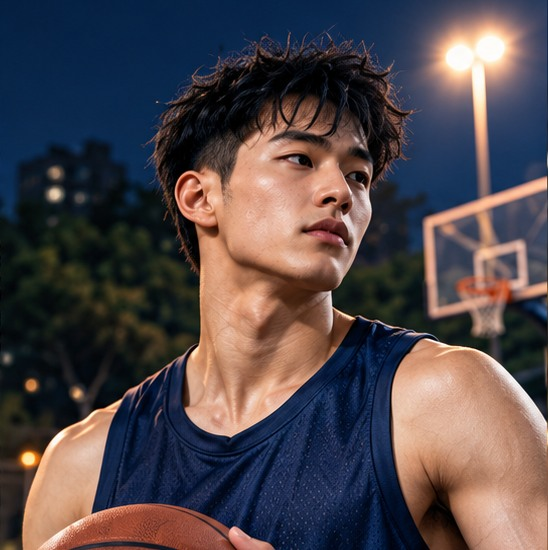
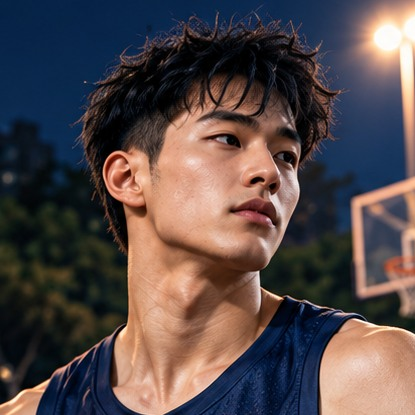
fix(wechat): match approved portrait framing, CTA text and compact page details

diff --git a/tests/e2e/mini-program.spec.ts b/tests/e2e/mini-program.spec.ts
@@ -242,6 +242,7 @@ async function checkDesignGeometry(frame: Frame, scenario: string, width: number
         lineHeight: parseFloat(style.lineHeight),
         radius: parseFloat(style.borderTopLeftRadius),
         background: style.backgroundColor,
+        color: style.color,
       };
     };
     return {
@@ -260,6 +261,14 @@ async function checkDesignGeometry(frame: Frame, scenario: string, width: number
       tableCell: measure('.comparison-cell'),
       columns: document.querySelectorAll('.compare-column').length,
       profileHero: measure('.profile-hero'),
+      profilePortrait: measure('.profile-hero-image'),
+      wrappedMetricLabels: Array.from(document.querySelectorAll('.label-cell'))
+        .filter((cell) => {
+          const range = document.createRange();
+          range.selectNodeContents(cell);
+          return range.getClientRects().length > 1;
+        })
+        .map((cell) => cell.textContent),
       profileQuote: measure('.profile-quote'),
       scopeRail: measure('.scope-rail'),
       selectedPlayer: measure('.selected-player'),
@@ -274,6 +283,8 @@ async function checkDesignGeometry(frame: Frame, scenario: string, width: number
         width: image.width,
         height: image.height,
         objectFit: getComputedStyle(image).objectFit,
+        mode: image.getAttribute('data-mini-image-mode'),
+        naturalRatio: image.naturalWidth / image.naturalHeight,
       })),
     };
   });
@@ -294,7 +305,12 @@ async function checkDesignGeometry(frame: Frame, scenario: string, width: number
     expect(
       metrics.photographs.every(
         (photo) =>
-          photo.loaded && photo.width > 0 && photo.height > 0 && photo.objectFit === 'cover',
+          photo.loaded &&
+          photo.width > 0 &&
+          photo.height > 0 &&
+          (photo.mode === 'widthFix'
+            ? Math.abs(photo.width / photo.height - photo.naturalRatio) < 0.01
+            : photo.objectFit === 'cover'),
       ),
     ).toBe(true);
   }
@@ -304,6 +320,7 @@ async function checkDesignGeometry(frame: Frame, scenario: string, width: number
     expect(metrics.homeAction?.width).toBe(214);
     expect(metrics.homeAction?.height).toBe(52);
     expect(metrics.homeAction?.background).toBe('rgb(255, 107, 45)');
+    expect(metrics.homeAction?.color).toBe('rgb(255, 255, 255)');
   } else {
     expect(metrics.action?.x).toBe(12);
     expect(metrics.action?.width).toBe(width - 24);
@@ -324,10 +341,13 @@ async function checkDesignGeometry(frame: Frame, scenario: string, width: number
       expect(metrics.playerColumn?.width).toBeCloseTo(expected, 1);
       expect(metrics.tableHead?.height).toBe(204);
       expect(metrics.tableCell?.height).toBe(38);
+      expect(metrics.wrappedMetricLabels).toEqual([]);
     } else if (group === 'player') {
       expect(metrics.profileHero?.height).toBe(width <= 360 ? 240 : 260);
-      expect(metrics.profileQuote?.x).toBe(12);
-      expect(metrics.profileQuote?.width).toBe(width - 24);
+      expect(metrics.profilePortrait?.width).toBeCloseTo(width * 0.72, 1);
+      expect(metrics.profilePortrait?.y).toBe(width <= 360 ? -40 : -50);
+      expect(metrics.profileQuote?.x).toBe(0);
+      expect(metrics.profileQuote?.width).toBe(width);
       expect(metrics.action?.background).toBe('rgb(255, 107, 45)');
     } else if (group === 'booking-create') {
       expect(metrics.scopeRail?.height).toBe(44);
@@ -407,6 +427,7 @@ test.describe('原生 WXML/WXSS 静态兼容布局（非微信运行时或真机
           );
           expect(clippedLabels, 'member status labels must fit on one line').toEqual([]);
         }
+        await attachScreen(page, testInfo, 'native-top.png');
         const designGeometry = await checkDesignGeometry(frame, scenario.name, width);
         const diagnosticPath = testInfo.outputPath('native-layout.json');
         fs.mkdirSync(path.dirname(diagnosticPath), { recursive: true });
@@ -432,7 +453,6 @@ test.describe('原生 WXML/WXSS 静态兼容布局（非微信运行时或真机
           path: diagnosticPath,
           contentType: 'application/json',
         });
-        await attachScreen(page, testInfo, 'native-top.png');
 
         // Measure the iframe's document, never just the outer preview wrapper.
         expect(layout.innerWidth).toBe(width);

diff --git a/docs/tasks/C11.md b/docs/tasks/C11.md
@@ -39,3 +39,12 @@ root：首页、共享header/icon/nav增强、局部tokens/素材、预览自定
 ## 最终本地候选（2026-10-25 Asia/Shanghai）
 
 六页代码与两轮定向跨域Review已整合，跨年档期显示/搜索提示已修复，相关mock补新today依赖但未弱化断言。289/289原生回归、typecheck/build通过；format两JSON已修后通过。205合成fixture+21初始路由=226场景，678三宽布局；本轮将实际确认6页照片加载/裁切、80px自定义头、12pxgutter、卡片/CTA几何，并保留所有业务状态检查。尚无本轮浏览器图片，立即提交隔离CI，不复用旧图。
+
+
+## 第一轮实际截图复核（2026-10-25 Asia/Shanghai）
+
+source1c7e806/tree38f364df，PR18；CI40168802460 admin SUCCESS：289原生、678布局和692浏览器通过，678重复mobile布局skip。artifact12590101016 ZIP SHAfa646f4a7d3941ee5f204d9b9f5d2cd036a63d202e957bea4b2eabf4c709a057，已下载校验，6页真实normal均已逐屏对照。
+
+人工复查发现：详情纵向人像铺满横幅切头/脸过大、320对比标签media覆盖导致两行、首页橙按钮受旧高specificity规则显示深色字、订单底部刷新工具挤掉提示。已改为右侧72%原生widthFix人像上移50/40px，头像缩略更贴脸，价格卡全宽；明确窄屏标签11px单行；首页白字；订单提示前置、工具下移仍可滚动访问；创建预约行值字号与CTA位置按图微调。图标/占位导出PNG以避免原生SVG支持差异，保留SVG源，不使用整页图代替界面。首页两处HTML br改成原生view。
+
+这些细修进入新候选全量重拍；首轮图片只作定位，不冒充最终图。图像裁切/标签实际单行/白字几何均加断言。完整CI与最终视觉尚待新source，不拼接两轮结果。

diff --git a/docs/handoffs/C11.md b/docs/handoffs/C11.md
@@ -18,3 +18,12 @@
 ## 最终本地候选（2026-10-25 Asia/Shanghai）
 
 六页代码与两轮定向跨域Review已整合，跨年档期显示/搜索提示已修复，相关mock补新today依赖但未弱化断言。289/289原生回归、typecheck/build通过；format两JSON已修后通过。205合成fixture+21初始路由=226场景，678三宽布局；本轮将实际确认6页照片加载/裁切、80px自定义头、12pxgutter、卡片/CTA几何，并保留所有业务状态检查。尚无本轮浏览器图片，立即提交隔离CI，不复用旧图。
+
+
+## 第一轮实际截图复核（2026-10-25 Asia/Shanghai）
+
+source1c7e806/tree38f364df，PR18；CI40168802460 admin SUCCESS：289原生、678布局和692浏览器通过，678重复mobile布局skip。artifact12590101016 ZIP SHAfa646f4a7d3941ee5f204d9b9f5d2cd036a63d202e957bea4b2eabf4c709a057，已下载校验，6页真实normal均已逐屏对照。
+
+人工复查发现：详情纵向人像铺满横幅切头/脸过大、320对比标签media覆盖导致两行、首页橙按钮受旧高specificity规则显示深色字、订单底部刷新工具挤掉提示。已改为右侧72%原生widthFix人像上移50/40px，头像缩略更贴脸，价格卡全宽；明确窄屏标签11px单行；首页白字；订单提示前置、工具下移仍可滚动访问；创建预约行值字号与CTA位置按图微调。图标/占位导出PNG以避免原生SVG支持差异，保留SVG源，不使用整页图代替界面。首页两处HTML br改成原生view。
+
+这些细修进入新候选全量重拍；首轮图片只作定位，不冒充最终图。图像裁切/标签实际单行/白字几何均加断言。完整CI与最终视觉尚待新source，不拼接两轮结果。

diff --git a/apps/wechat/assets/approved-ui/README.md b/apps/wechat/assets/approved-ui/README.md
@@ -1,3 +1,7 @@
 # C11 视觉素材
 
 确认图：docs/design/C11/approved-six-screen.png。court-night及sample人物从本轮派生的纯照片三联素材导出，不含UI或文字；原始生成图SHA256 e74856cce97bca67d15d86a2cc1dc762f73e0f0b3ba6d71792e37f68d3a4d2ce，画布(1643, 957)，切片框{"court-night.jpg": [0, 0, 548, 957], "player-sample-a.jpg": [548, 100, 1096, 650], "player-sample-b.jpg": [1096, 100, 1643, 650], "player-sample-a-hero.jpg": [548, 0, 1096, 957], "player-sample-b-hero.jpg": [1096, 0, 1643, 957]}。头像sample只用于合成验收fixture，产品不按真实球员姓名/ID分配虚假照片；无公开头像字段时用player-placeholder。home-slogan是确认图中营销书法白字的透明前景，非按钮/数据截图。所有按钮、动态文字和表单均为原生元素。图标为本项目原创SVG。
+
+运行图标及占位统一使用同源SVG导出的PNG（120px图标、320px占位），保留SVG工程源以便维护。实际控件不依赖目标微信版本的SVG显示差异。
+
+最终头像缩略图覆盖初始导出框，A=(620,120,1035,535)，B=(1170,120,1585,535)，更贴合确认稿的脸部比例。hero仍为原完整列，通过原生widthFix在右侧72%宽按比例定位，上移50px（320上移40px），保留完整头部。
